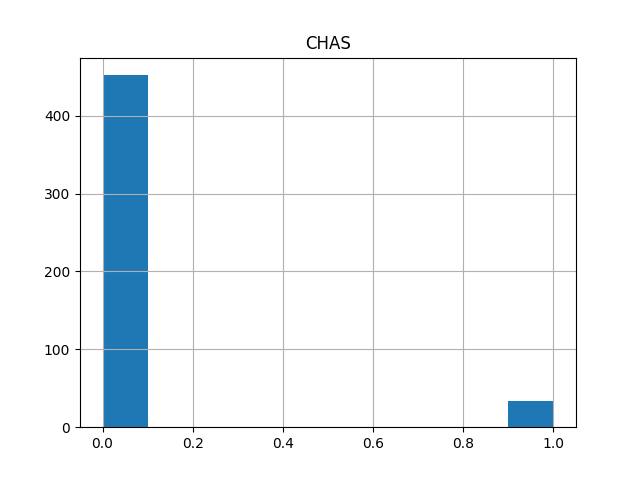
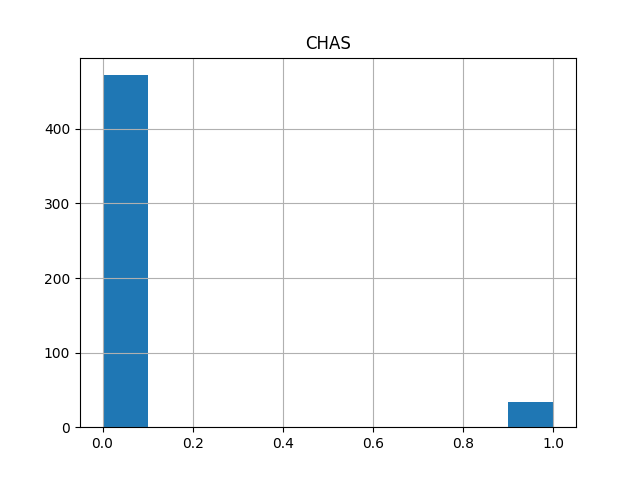
Linear Regression Completed, but ex9 problem not working

diff --git a/data_science/ex9_problem.py b/data_science/ex9_problem.py
@@ -1,0 +1,61 @@
+"""
+Data Science - Ordinary Squares
+Ordinary least squares for linear regression.
+
+Ordinary least squares (OLS) is a method to estimate the parameters β in a simple linear regression, Xβ = y,
+where X is the feature matrix and y is the dependent variable (or target),
+by minimizing the sum of the squares of the differences between the observed dependent variable in the given dataset
+and those predicted by the linear function.
+Mathematically, the solution is given by the formula in the image, where the superscript T means the transpose of a matrix,
+and the superscript -1 means it is an inverse of a matrix.
+Task
+Given a 2D array feature matrix X and a vector y, return the coefficient vector; see the formula above.
+
+Input Format
+First line: two integers separated by spaces, the first indicates the rows of the feature matrix X (n) and the second indicates the columns of X (p)
+Next n lines: values of the row in the feature matrix
+Last line: p values of target y
+
+Output Format
+An numpy 1d array of values rounded to the second decimal.
+
+Sample Input
+2 2
+1 0
+0 2
+2 3
+
+Sample Output
+[2. , 1.5]
+
+"""
+
+import numpy as np
+
+# Read input
+n, p = map(int, input().split())
+
+# Initialize feature matrix X and target vector y
+X = []
+y = []
+
+# Read feature matrix X
+for _ in range(n):
+    row = list(map(float, input().split()))
+    X.append(row)
+
+# Read target vector y
+target_vector = list(map(float, input().split()))
+
+# Convert X and y to NumPy arrays
+X = np.array(X)
+y = np.array(target_vector)
+
+# Calculate the coefficient vector using the OLS formula
+coefficients = np.linalg.inv(X.T @ X) @ X.T @ y
+
+# Round the coefficient values to two decimal places
+coefficients = np.round(coefficients, 2)
+
+# Print the result as a NumPy 1D array
+print(coefficients)

diff --git a/data_science/datasets/rohirto_datasets.py b/data_science/datasets/rohirto_datasets.py
@@ -4,11 +4,19 @@ This is my library to load custom libraries into my projects
 
 # Boston Data set
 import pandas as pd
-import numpy as np
-
 boston = pd.read_csv('/workspaces/docker_python/data_science/datasets/bostondataset.csv',nrows=506)
 
 def load_boston_data():
+    """Returns the pandas dataframe made from bostondata csv
+
+    Returns:
+        df: Dataframe containing the boston housing data
+    """
+    # Calculate column means (ignoring NaN values)
+    column_means = boston.mean()
+    # Fill the Nan with the mean value as the Linear regression wont work
+    for col in boston.columns:
+        boston[col] = boston[col].fillna(column_means[col])
     return boston
 
 # import pandas as pd  # doctest: +SKIP
